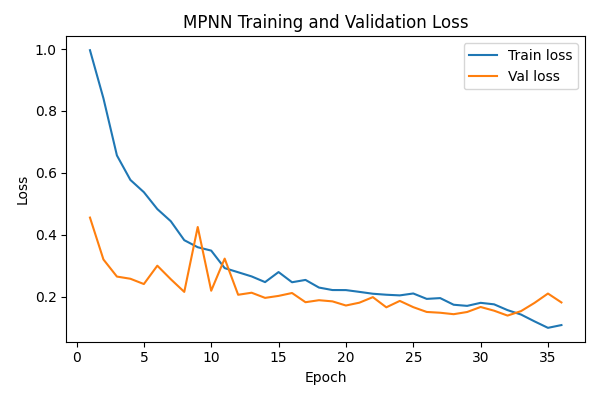
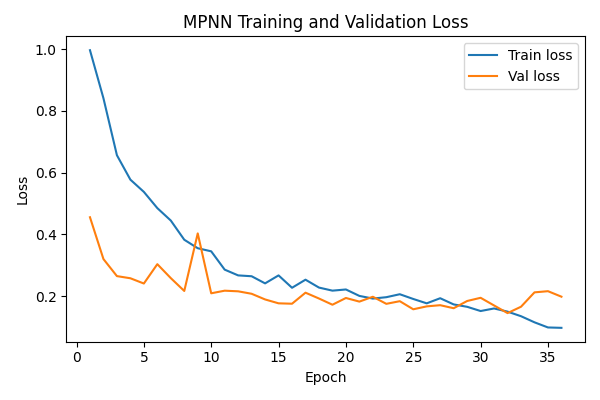
oops forgor to update code

diff --git a/MPNN/tuning.py b/MPNN/tuning.py
@@ -70,17 +70,22 @@ def run_trial(
     val_loader: DataLoader,
     pos_weight: torch.Tensor,
 ) -> float:
-    num_layers = trial.suggest_categorical("num_layers", [3, 4])
-    hidden_channels = trial.suggest_categorical("hidden_channels", [64, 128, 256])
-    gin_dropout = trial.suggest_categorical("gin_dropout", [0.1, 0.2, 0.3])
-    fusion_dropout = trial.suggest_categorical("fusion_dropout", [0.2, 0.3, 0.4, 0.5])
+    # Hyperparameters for the new MPNN architecture
+    # message_units is restricted to 32, 64, 128 so node_dim remains divisible by attention heads
+    message_units = trial.suggest_categorical("message_units", [32, 64, 128])
+    message_steps = trial.suggest_int("message_steps", 2, 6)
+    num_attention_heads = trial.suggest_categorical("num_attention_heads", [4, 8])
+    dense_units = trial.suggest_categorical("dense_units", [128, 256, 512])
+    fusion_dropout = trial.suggest_float("fusion_dropout", 0.1, 0.5, step=0.1)
 
     model = MPNN(
-        hidden_channels=hidden_channels,
-        num_layers=num_layers,
-        gin_dropout=gin_dropout,
+        message_units=message_units,
+        message_steps=message_steps,
+        num_attention_heads=num_attention_heads,
+        dense_units=dense_units,
         fusion_dropout=fusion_dropout,
     ).to(device)
+    
     optimizer = torch.optim.AdamW(model.parameters(), lr=1e-3)
     scheduler = torch.optim.lr_scheduler.ReduceLROnPlateau(
         optimizer, mode="max", factor=0.5, patience=5
@@ -145,13 +150,15 @@ def objective(trial: optuna.Trial) -> float:
 
 
 if __name__ == "__main__":
-    n_trials = 16  # 16 trials across discrete grid
+    n_trials = 16 
     study = optuna.create_study(
         direction="maximize",
         study_name="mpnn_bbbp",
         sampler=optuna.samplers.TPESampler(multivariate=True, group=True),
         pruner=optuna.pruners.MedianPruner(n_startup_trials=3, n_warmup_steps=5),
     )
+    
+    # Define search space statically for Optuna to resolve multiprocessing correctly
     study.optimize(objective, n_trials=n_trials, show_progress_bar=True)
 
     print("\nBest trial:")
@@ -179,17 +186,20 @@ if __name__ == "__main__":
     train_loader = DataLoader(train_ds, batch_size=32, shuffle=True)
     val_loader = DataLoader(val_ds, batch_size=32, shuffle=False)
     test_loader = DataLoader(test_ds, batch_size=32, shuffle=False)
+    
     train_targets = [dataset.df.iloc[i]["p_np"] for i in train_ds.indices]
     n_pos = sum(1 for t in train_targets if t == 1)
     n_neg = len(train_targets) - n_pos
     pos_weight = torch.tensor([n_neg / n_pos], dtype=torch.float, device=device)
 
     model = MPNN(
-        hidden_channels=best["hidden_channels"],
-        num_layers=best["num_layers"],
-        gin_dropout=best["gin_dropout"],
+        message_units=best["message_units"],
+        message_steps=best["message_steps"],
+        num_attention_heads=best["num_attention_heads"],
+        dense_units=best["dense_units"],
         fusion_dropout=best["fusion_dropout"],
     ).to(device)
+    
     optimizer = torch.optim.AdamW(model.parameters(), lr=1e-3)
     scheduler = torch.optim.lr_scheduler.ReduceLROnPlateau(
         optimizer, mode="max", factor=0.5, patience=5
@@ -199,22 +209,26 @@ if __name__ == "__main__":
     best_val_auc = 0.0
     best_state = None
     epochs_no_improve = 0
+    
     for epoch in range(1, FINAL_MAX_EPOCHS + 1):
         train_epoch(model, train_loader, optimizer, criterion, device, epoch)
         val_loss, val_auc, val_f1 = evaluate(model, val_loader, criterion, device)
         scheduler.step(val_auc)
+        
         if val_auc > best_val_auc:
             best_val_auc = val_auc
             best_state = {k: v.cpu().clone() for k, v in model.state_dict().items()}
             epochs_no_improve = 0
         else:
             epochs_no_improve += 1
+            
         if epochs_no_improve >= PATIENCE:
             break
 
     if best_state is not None:
         model.load_state_dict(best_state)
         model.to(device)
+        
     os.makedirs(CHECKPOINT_DIR, exist_ok=True)
     path = os.path.join(CHECKPOINT_DIR, "best_tuned.pt")
     torch.save({
@@ -222,6 +236,7 @@ if __name__ == "__main__":
         "best_val_auc": best_val_auc,
         "params": best,
     }, path)
+    
     test_loss, test_auc, test_f1 = evaluate(model, test_loader, criterion, device)
     print(f"\nBest model saved to {path}")
     print(f"Test loss: {test_loss:.4f} | Test AUC-ROC: {test_auc:.4f} | Test F1: {test_f1:.4f}")

diff --git a/MPNN/mpnn.py b/MPNN/mpnn.py
@@ -7,13 +7,14 @@ from torch_geometric.utils import to_dense_batch # type: ignore
 class MPNN(nn.Module):
     def __init__(
         self, 
+        message_units: int, 
+        message_steps: int, 
+        num_attention_heads: int, 
+        dense_units: int,
+        fusion_dropout: float,
         atom_dim: int = 29, 
         bond_dim: int = 7, 
         tabular_dim: int = 7,
-        message_units: int = 64, 
-        message_steps: int = 4, 
-        num_attention_heads: int = 8, 
-        dense_units: int = 512
     ):
         super(MPNN, self).__init__()
         self.message_steps = message_steps
@@ -43,7 +44,7 @@ class MPNN(nn.Module):
         self.classification = nn.Sequential(
             nn.Linear(self.node_dim + tabular_dim, dense_units),
             nn.ReLU(),
-            nn.Dropout(0.2), 
+            nn.Dropout(fusion_dropout), 
             nn.Linear(dense_units, 1)
         )
 

diff --git a/MPNN/train.py b/MPNN/train.py
@@ -98,7 +98,13 @@ if __name__ == "__main__":
     n_neg = len(train_targets) - n_pos
     pos_weight = torch.tensor([n_neg / n_pos], dtype=torch.float, device=device)
     
-    model = MPNN().to(device) # NEVER PULL FROM OPTUNA
+    model = MPNN( # from optuna ouptut
+        message_units = 64, 
+        message_steps = 4, 
+        num_attention_heads = 8, 
+        dense_units = 512,
+        fusion_dropout = 0.2,
+    ).to(device)
     
     optimizer = torch.optim.AdamW(model.parameters(), lr=1e-3)
     scheduler = torch.optim.lr_scheduler.ReduceLROnPlateau(
